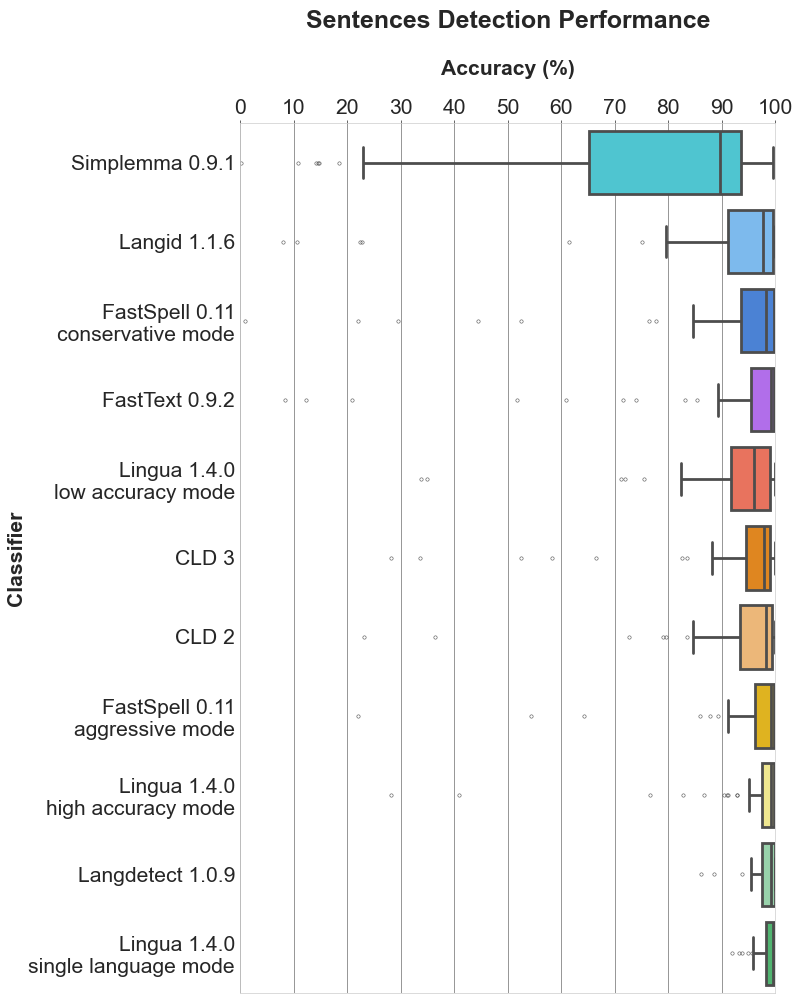
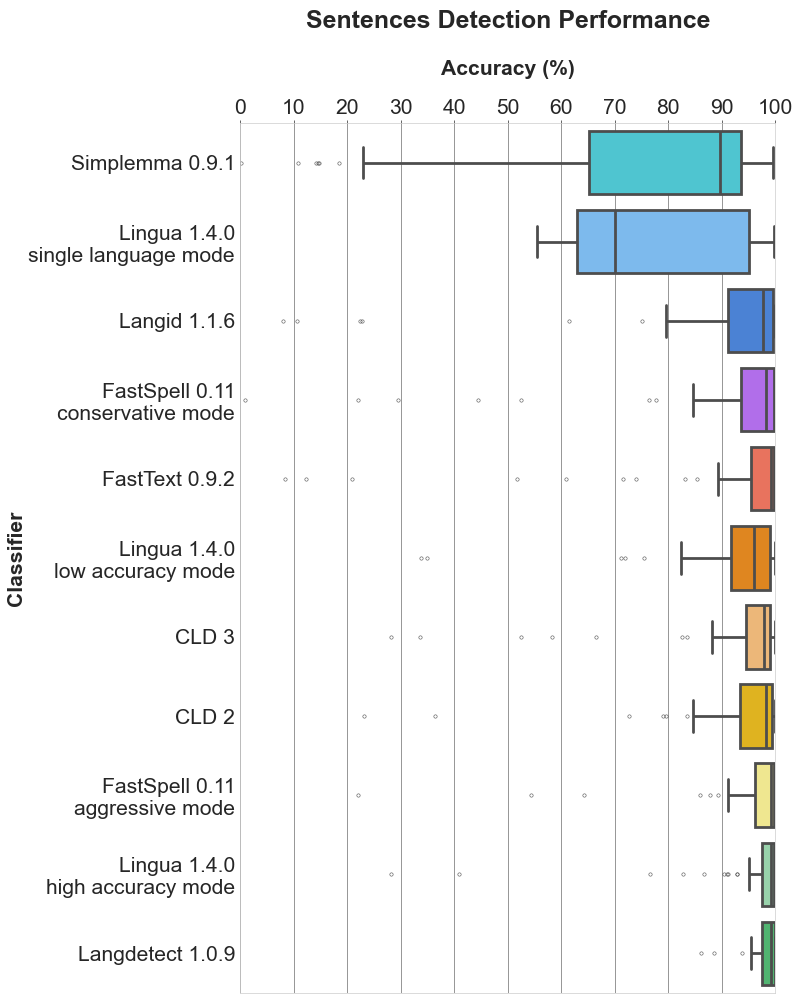
Draw single language mode box plots

diff --git a/scripts/accuracy_plot_drawer.py b/scripts/accuracy_plot_drawer.py
@@ -49,6 +49,9 @@ class AccuracyPlotDrawer:
         "lingua-single-language-detector": "Lingua 1.4.0\nsingle language mode",
         "simplemma": "Simplemma 0.9.1",
     }
+    _single_language_mode_columns = [
+        f"lingua-{language.name.lower()}-detector" for language in Language
+    ]
     _hatches = ("|", "-", "/", "x", "+", "\\", "o", "oo", ".", "*", "O")
     _palette = (
         "#39d7e6",
@@ -72,17 +75,13 @@ class AccuracyPlotDrawer:
     def _read_into_dataframe(self, report_file_path: Path) -> pd.DataFrame:
         df = pd.read_csv(report_file_path, index_col="language")
 
-        single_language_mode_columns = [
-            f"lingua-{language.name.lower()}-detector" for language in Language
-        ]
         merged_single_language_mode_column = {
-            "lingua-single-language-detector": df[single_language_mode_columns].mean(
-                axis="columns"
-            )
+            "lingua-single-language-detector": df[
+                self._single_language_mode_columns
+            ].mean(axis="columns")
         }
-        df = df.assign(**merged_single_language_mode_column).drop(
-            single_language_mode_columns, axis="columns"
-        )
+
+        df = df.assign(**merged_single_language_mode_column)
 
         # Sort classifier columns by their mean value
         df = df.reindex(df.mean().sort_values().index, axis="columns")
@@ -185,6 +184,49 @@ class AccuracyPlotDrawer:
         plt.tight_layout()
         plt.savefig(file_path, dpi=self._dpi)
 
+    def draw_single_language_mode_boxplot(self, file_path: Path):
+        row_filter = self._dataframe[self._hue].isin(self._single_language_mode_columns)
+        data = self._dataframe[row_filter].sort_values(by=self._hue)
+        classifiers = data[self._hue].unique()
+        labels = [classifier.split("-")[1].title() for classifier in classifiers]
+
+        plt.figure(figsize=(20, 150))
+        plt.title(
+            self._plot_title + "\nSingle Language Mode\n",
+            fontsize=self._title_fontsize,
+            fontweight=self._fontweight,
+        )
+        plt.xticks(fontsize=self._ticks_fontsize, ticks=self._ticks)
+        plt.yticks(fontsize=self._ticks_fontsize)
+        plt.grid(color=self._grid_color)
+
+        axes = sns.boxplot(
+            data=data,
+            x="accuracy",
+            hue="classifier",
+            y="classifier",
+            linewidth=5,
+            legend=False,
+        )
+
+        axes.set_xlim((0, 100))
+        axes.xaxis.tick_top()
+        axes.xaxis.set_label_position("top")
+        axes.tick_params(axis="both", which="major", labelsize=self._label_fontsize)
+        axes.tick_params(axis="both", which="minor", labelsize=self._label_fontsize)
+        axes.set_ylabel(
+            "Classifier", fontsize=self._label_fontsize, fontweight=self._fontweight
+        )
+        axes.set_xlabel(
+            "Accuracy (%)\n", fontsize=self._label_fontsize, fontweight=self._fontweight
+        )
+        # set_yticklabels should only be called after set_yticks
+        axes.set_yticks(axes.get_yticks())
+        axes.set_yticklabels(labels)
+
+        plt.tight_layout()
+        plt.savefig(file_path, dpi=self._dpi)
+
 
 if __name__ == "__main__":
     report_directory_path = Path(__file__).parent / "../accuracy-reports"
@@ -199,5 +241,8 @@ if __name__ == "__main__":
         )
         drawer.draw_barplot(file_path=plot_directory_path / f"barplot-{prefix}.png")
         drawer.draw_boxplot(file_path=plot_directory_path / f"boxplot-{prefix}.png")
+        drawer.draw_single_language_mode_boxplot(
+            file_path=plot_directory_path / f"boxplot-single-language-mode-{prefix}.png"
+        )
 
     print("All plots created successfully")
